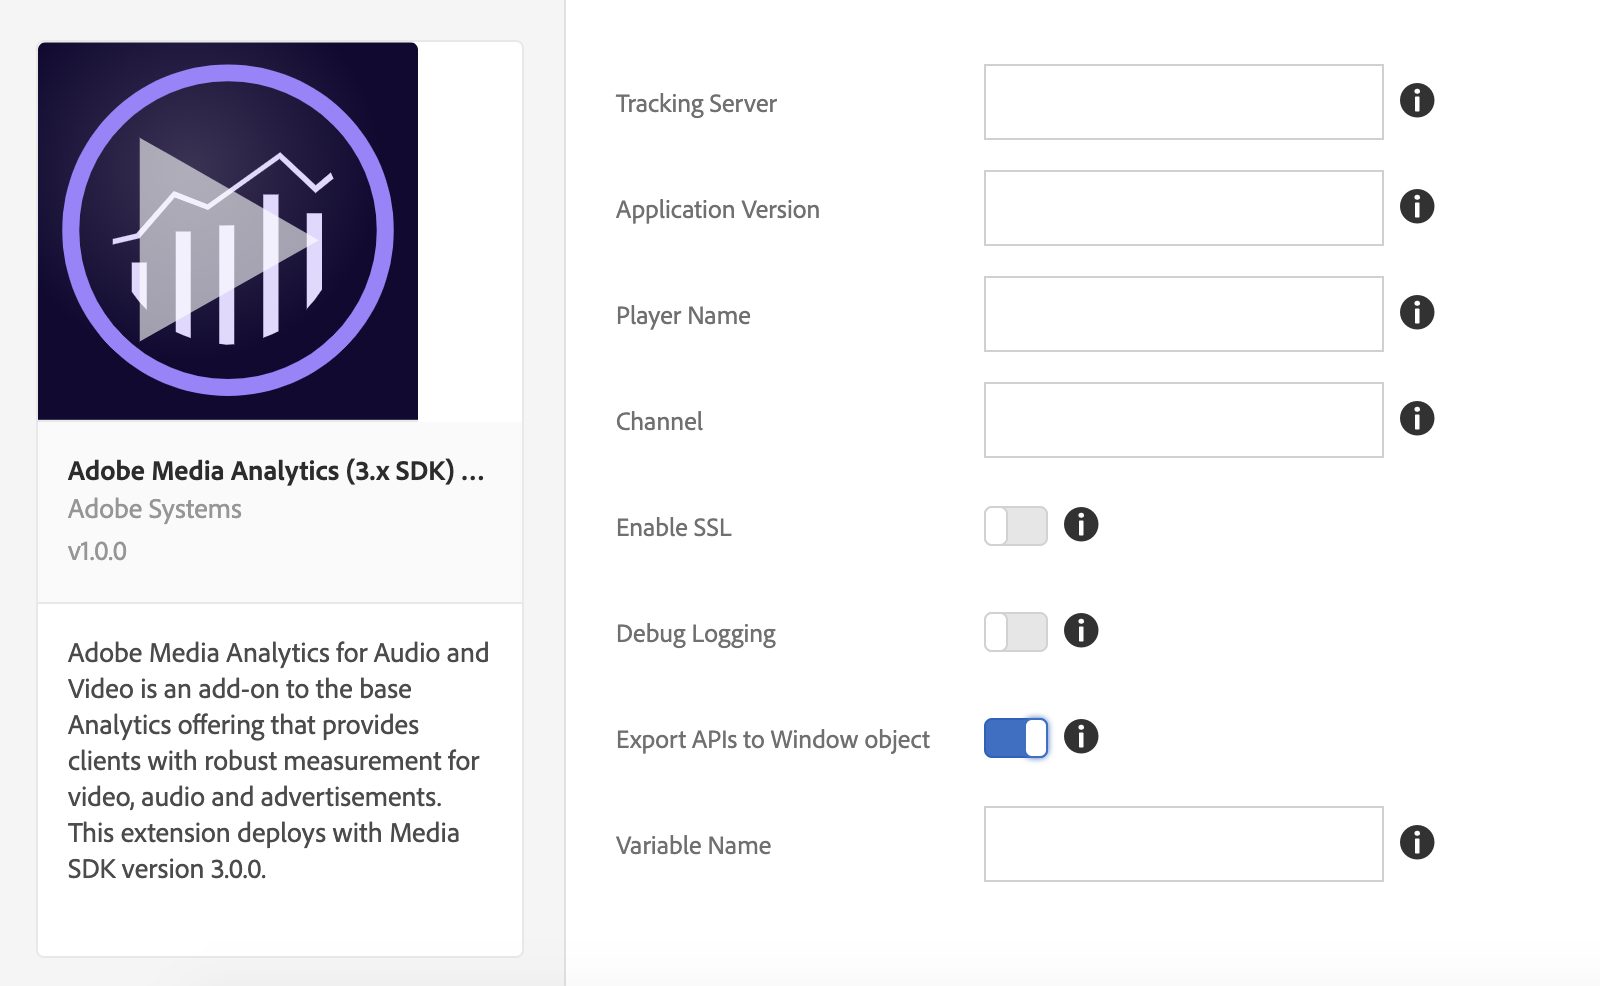
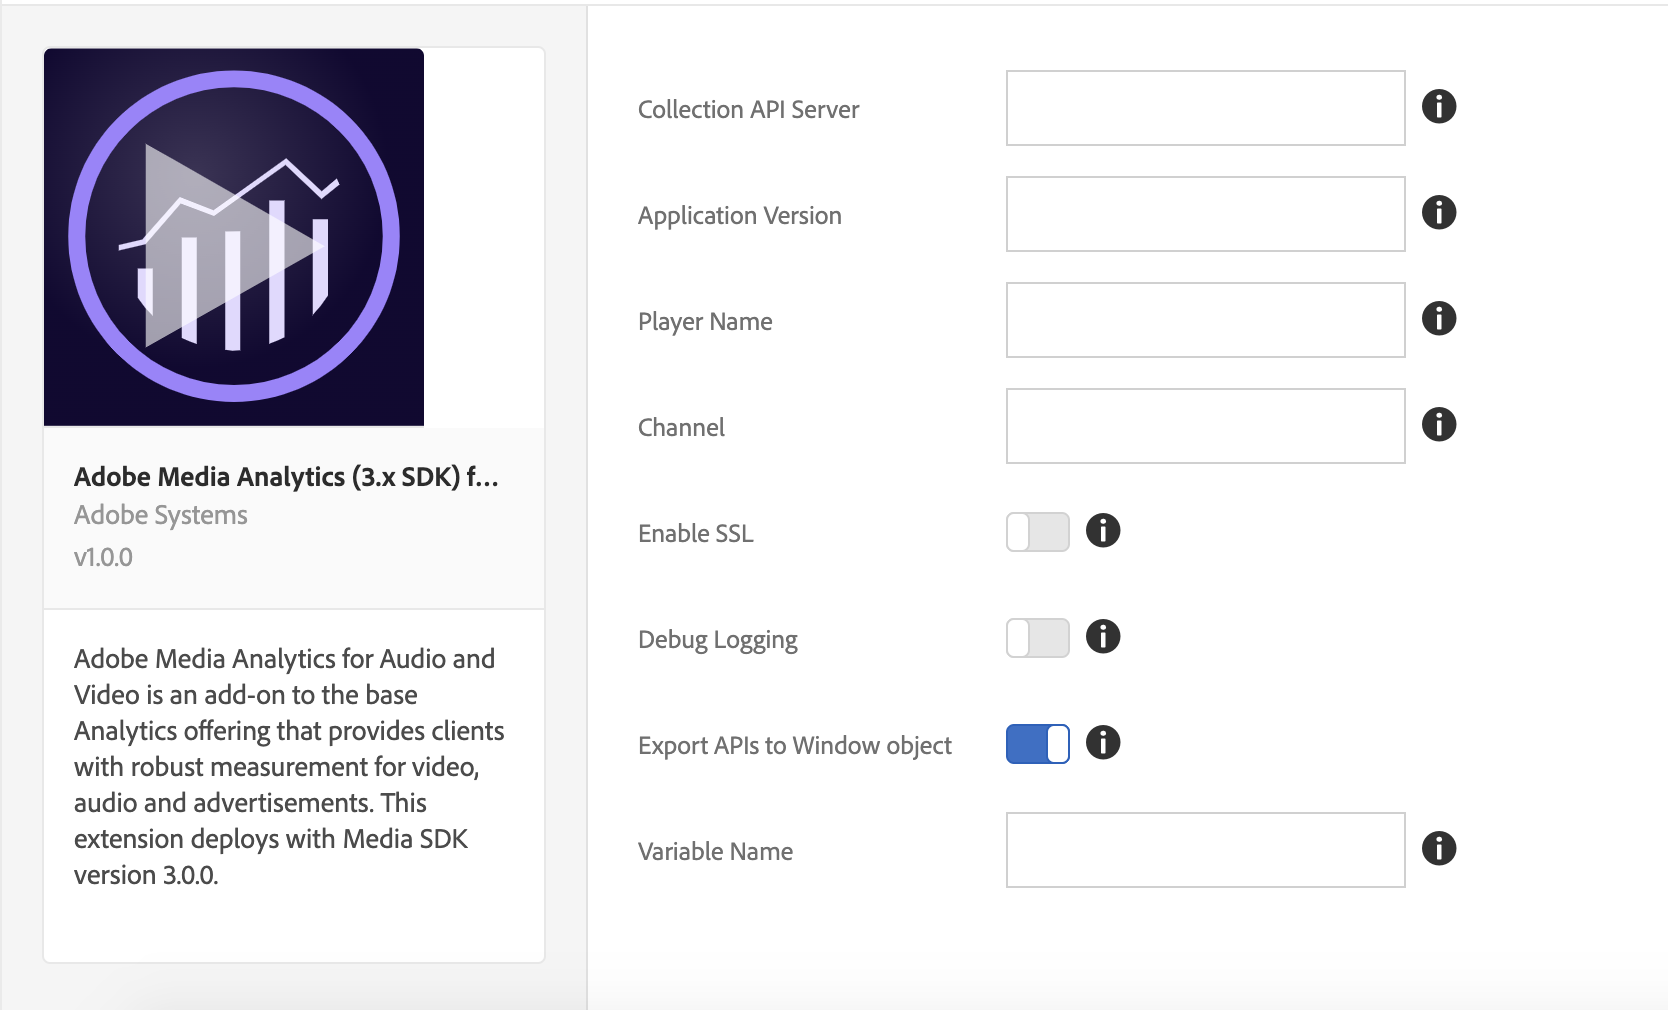
Doc updates

diff --git a/help/extension-reference/web/adobe-media-analytics-3x-for-audio-and-video-extension/overview.md b/help/extension-reference/web/adobe-media-analytics-3x-for-audio-and-video-extension/overview.md
@@ -1,9 +1,3 @@
----
-title: Adobe Media Analytics for Audio and Video Extension
-seo-title: Adobe Media Analytics for Audio and Video Extension in Adobe Experience Platform Launch
-description: Information on installing, configuring, and implementing the Adobe Media Analytics for Audio and Video extension (Media Analytics extension)
-seo-description: Adobe Media Analytics for Audio and Video Extension in Adobe Experience Platform Launch
----
 
 # Adobe Media Analytics (3.x SDK) for Audio and Video Extension
 
@@ -14,7 +8,7 @@ The Media Analytics (MA) extension adds the core JavaScript Media SDK (Media 3.x
 * [Analytics Extension](/help/extension-reference/web/adobe-analytics-extension/overview.md)
 * [Experience Cloud ID Extension](/help/extension-reference/web/experience-cloud-id-service-extension/overview.md)
 
->[!IMPORTANT]  This extension deploys with Media 3.x SDK which is not backward compatible with Media 2.x SDK. If your page already uses Media 2.x SDK use Adobe Media Analytics for Audio and Video Extension instead of this extension.
+>[!IMPORTANT]  This extension deploys with Media 3.x SDK which is not backward compatible with Media 2.x SDK. If your page already uses Media 2.x SDK use [Adobe Media Analytics for Audio and Video Extension](/help/extension-reference/web/adobe-media-analytics-for-audio-and-video-extension/overview.md) instead of this extension.
 
 After you have included all three of the extensions mentioned above in your Launch project, you can proceed in one of two ways:
 
@@ -35,7 +29,7 @@ After you have included all three of the extensions mentioned above in your Laun
 
 | Option | Description |
 | :--- | :--- |
-| Tracking Server | Defines the media collection server (Contact your Adobe representative to get this endpoint) |
+| Collection API Server | Defines the Media Collection API Server (Contact your Adobe representative to get this server) |
 | Application Version | The version of the media player app/SDK |
 | Player Name | Name of the media player in use (e.g., "AVPlayer", "HTML5 Player", "My Custom VideoPlayer") |
 | Channel | Channel name property |
@@ -54,23 +48,24 @@ The MA extension exports the Media APIs in the global window object by enabling 
 
 >[!IMPORTANT]  The MA extension exports the APIs only when `window["CONFIGURED_VARIABLE_NAME"]` is undefined and does not override existing variables.
 
-1. **Create Media Instance:**&nbsp;`window["CONFIGURED_VARIABLE_NAME"].Media.getInstance`
+1. **Media APIs:**&nbsp;`window["CONFIGURED_VARIABLE_NAME"].Media`
 
-    **Return Value:** A `Media` instance which can be used for tracking.
+    This exposes all the APIs and constants from Media SDK: [https://adobe-marketing-cloud.github.io/media-sdks/reference/javascript_3x/APIReference.html](https://adobe-marketing-cloud.github.io/media-sdks/reference/javascript_3x/APIReference.html)
+    
+1. **Create Media Tracker Instance:**&nbsp;`window["CONFIGURED_VARIABLE_NAME"].Media.getInstance`
 
-2. **Access Media Constants:**&nbsp;`window["CONFIGURED_VARIABLE_NAME"].Media`
-
-    This exposes all of the constants and static methods from the [`Media`](https://adobe-marketing-cloud.github.io/media-sdks/reference/javascript_3x/APIReference.html) class.
- 
-    You can obtain the sample player here: [MA Sample Player](https://github.com/Adobe-Marketing-Cloud/media-sdks/tree/master/samples/launch/js/3.x). The sample player acts as a reference to showcase how to use the MA extension to support Media Analytics directly from a webapp.
-
-3. Create the Media instance as follows:
+    **Return Value:** A `Media` tracker instance for tracking a media session.
 
     ```javascript
     var Media = window["CONFIGURED_VARIABLE_NAME"].Media;
 
     var tracker = Media.getInstance();
     ```
+
+1. Using the Media tracker instance, follow the [JS API documentation](https://adobe-marketing-cloud.github.io/media-sdks/reference/javascript_3x/index.html) to implement media tracking.
+
+You can obtain the sample player here: [MA Sample Player](https://github.com/Adobe-Marketing-Cloud/media-sdks/tree/master/samples/launch/js/3.x). The sample player acts as a reference to showcase how to use the MA extension to support Media Analytics directly from a webapp.
+
 
 ### Using from other extensions
 
@@ -80,19 +75,20 @@ The MA extension exposes `media` as shared module to other extensions. (For addi
 
 1. **Media APIs:**&nbsp;`media` Shared Module
 
-    This module exposes all of the APIs and constants from this class: [https://adobe-marketing-cloud.github.io/media-sdks/reference/javascript_3x/APIReference.html](https://adobe-marketing-cloud.github.io/media-sdks/reference/javascript_3x/APIReference.html).
+    This exposes all the APIs and constants from Media SDK: [https://adobe-marketing-cloud.github.io/media-sdks/reference/javascript_3x/APIReference.html](https://adobe-marketing-cloud.github.io/media-sdks/reference/javascript_3x/APIReference.html)
 
-1. Create the Media instance as follows:
+1. Create the Media tracker instance as follows:
+
+    **Return Value:** A `Media` tracker instance for tracking a media session.
 
     ```javascript
     var Media =
       turbine.getSharedModule('adobe-media-analytics', 'media');
-    
+
     var tracker = Media.getInstance();
-    ...
     ```
 
-1. Using the Media tracker instance, follow the [Media SDK JS documentation](https://docs.adobe.com/content/help/en/media-analytics/using/sdk-implement/setup/set-up-js.html) and [JS API documentation](https://adobe-marketing-cloud.github.io/media-sdks/reference/javascript_3x/index.html) to implement media tracking.
+1. Using the Media tracker instance, follow the [JS API documentation](https://adobe-marketing-cloud.github.io/media-sdks/reference/javascript_3x/index.html) to implement media tracking.
 
 >[!NOTE] **Testing:** For this release, to test your extension you must upload it to [Adobe Experience Platform Launch](https://github.com/Adobe-Marketing-Cloud/reactor-user-docs/tree/73a73bd5ff53162339ce5ded3f4bba4712146d20/extension-reference/launch.adobe.com), where you have access to all dependent extensions.
 

diff --git a/help/extension-reference/web/adobe-media-analytics-3x-for-audio-and-video-extension/adobe-media-analytics-3x-for-audio-and-video-extension-release-notes.md b/help/extension-reference/web/adobe-media-analytics-3x-for-audio-and-video-extension/adobe-media-analytics-3x-for-audio-and-video-extension-release-notes.md
@@ -1,9 +1,3 @@
----
-title: Adobe Media Analytics for Audio and Video Release Notes
-seo-title: Adobe Media Analytics for Audio and Video Release Notes in Adobe Experience Platform Launch
-description: Adobe Media Analytics for Audio and Video Release Notes in Adobe Experience Platform Launch
-seo-description: Adobe Media Analytics for Audio and Video Release Notes in Adobe Experience Platform Launch
----
 
 # Adobe Media Analytics (3.x SDK) for Audio and Video Release Notes
 
@@ -15,4 +9,4 @@ seo-description: Adobe Media Analytics for Audio and Video Release Notes in Adob
 * Uses Media Collection API for tracking media
 * Supports player state tracking
 
-The [Adobe Media Analytics (3.x SDK) for Audio and Video Extension](/help/extension-reference/web/adobe-media-analytics-3x-for-audio-and-video-extension/overview.md) adds the core Media Analytics 3.x JavaScript library. This library provides the functionality for tracking media to a Launch site or project. 
+The [Adobe Media Analytics (3.x SDK) for Audio and Video Extension](/help/extension-reference/web/adobe-media-analytics-3x-for-audio-and-video-extension/overview.md) adds the core Media Analytics 3.x JavaScript library. This library provides the functionality for tracking media to a Launch site or project.
